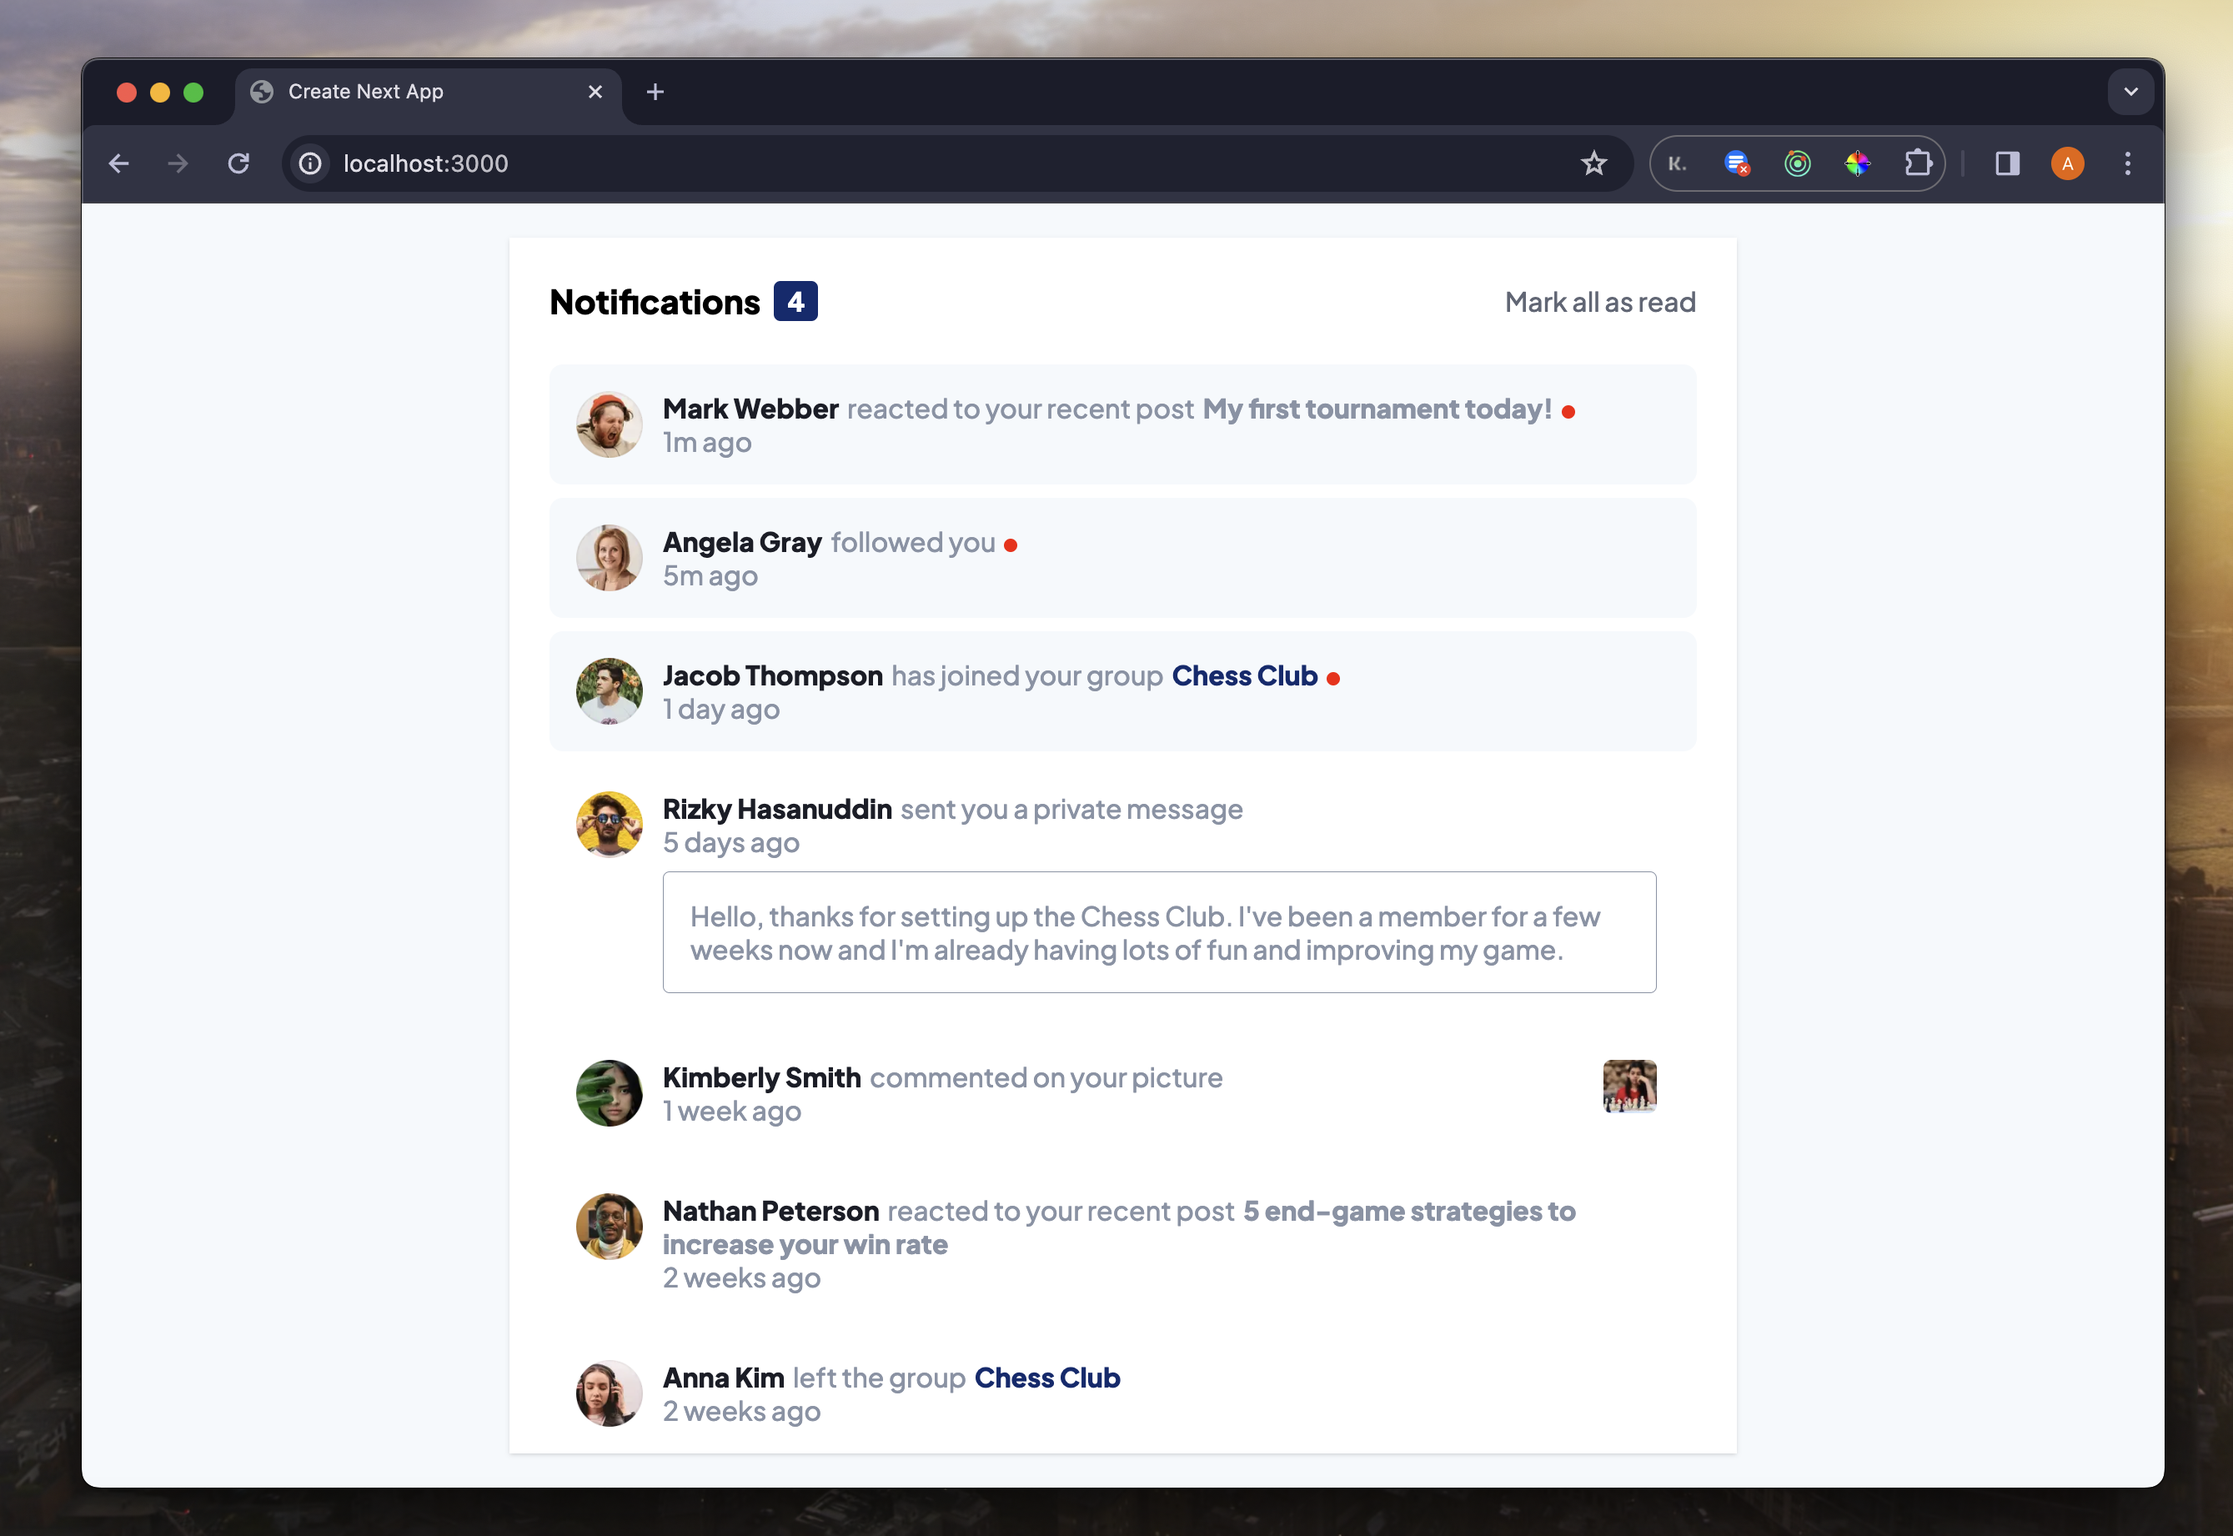
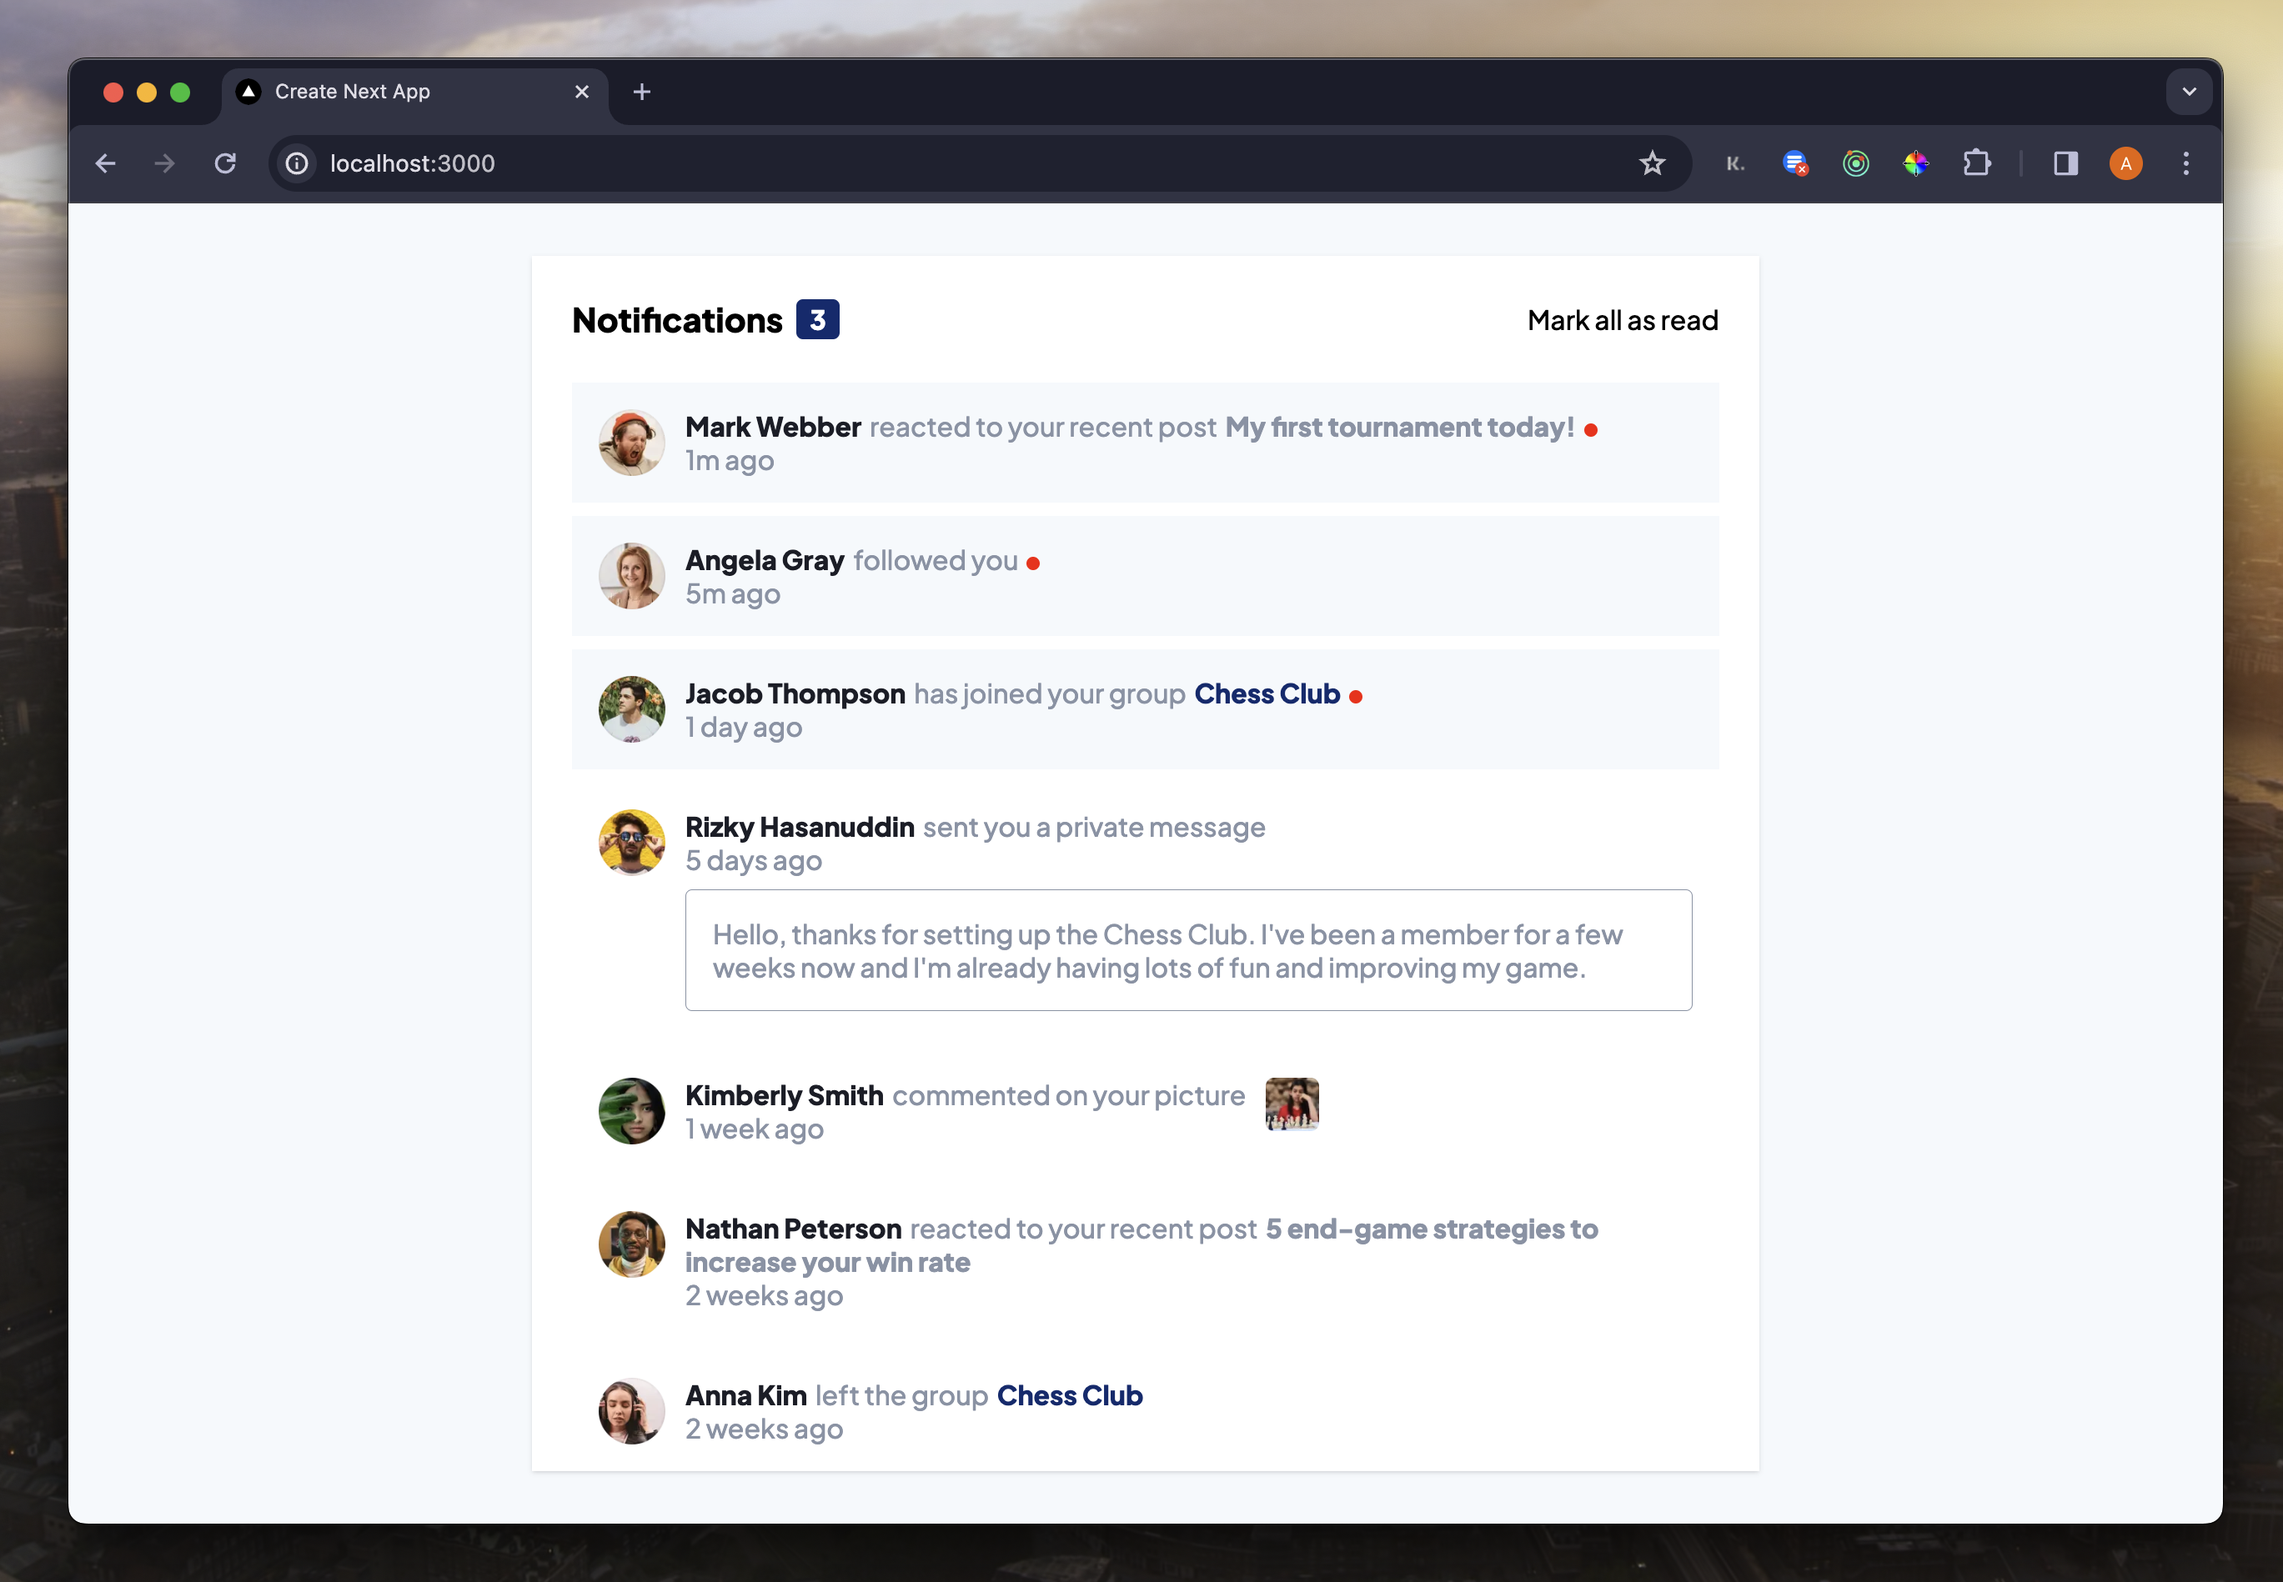
Amended dynamic styles and commented code

diff --git a/components/Notification/index.tsx b/components/Notification/index.tsx
@@ -1,4 +1,4 @@
-import { FC, MouseEventHandler, useState } from 'react'
+import { FC, useState } from 'react'
 import Image from 'next/image'
 import { motion } from 'framer-motion'
 
@@ -12,27 +12,32 @@ export interface UserNotification {
   groups?: string
   seen: boolean
   quote?: string
+  id: number
 }
 interface NotificationProps {
   user: UserNotification
   i: number
-  viewed: boolean
   setCounter: Function
   counter: number
 }
 
 const Notification: FC<NotificationProps> = ({
-  viewed,
   setCounter,
   user,
   counter,
   i,
 }) => {
+  // Store click state for whether user has confirmed the notification
   const [userSeen, setUserSeen] = useState(user.seen)
+
+  // Handles clicks on the notification
   const handleClick = () => {
+    // Conditional prevents multiple 'seen' clicks
     if (!userSeen && counter > 0) {
+      // Set local userSeen state to true
+      setUserSeen(true)
+      // Set counter in parent Feed component to counter - 1
       setCounter((prev: number) => prev - 1)
-      setUserSeen(true) // Mark as seen
     }
   }
 
@@ -44,10 +49,10 @@ const Notification: FC<NotificationProps> = ({
     >
       <div
         className={`${
-          userSeen
-            ? 'bg-white cursor-default'
-            : 'bg-neutral-veryLightGrayishBlue cursor-pointer'
-        } flex flex-row md:flex-row items-start space-x-3 space-y-0 p-4`}
+          userSeen || user.seen
+            ? 'bg-white cursor-default transition ease-in-out'
+            : 'bg-neutral-veryLightGrayishBlue cursor-pointer transition ease-in-out'
+        } flex flex-row md:flex-row items-start space-x-3 space-y-0 p-4 leading-tight`}
         onClick={handleClick}
       >
         <div
@@ -65,21 +70,21 @@ const Notification: FC<NotificationProps> = ({
           />
         </div>
 
-        <div onClick={() => handleClick}>
+        <div>
           <div className='inline space-x-0.5'>
-            <span className='font-bold text-neutral-veryDarkBlue hover:text-primary-blue'>
+            <span className='font-bold text-neutral-veryDarkBlue hover:text-primary-blue transition ease-in-out hover:cursor-pointer'>
               {user.name}{' '}
             </span>
             <span className='text-neutral-grayishBlue font-normal'>
               {user.notification}{' '}
             </span>
             {user.post && (
-              <span className='font-bold text-neutral-grayishBlue'>
+              <span className='font-bold text-neutral-grayishBlue hover:cursor-pointer transition ease-in-out hover:text-primary-blue'>
                 {user.post}{' '}
               </span>
             )}
             {user.groups && (
-              <span className='font-bold text-primary-blue'>
+              <span className='font-bold text-primary-blue transition ease-in-out hover:cursor-pointer'>
                 {user.groups}{' '}
               </span>
             )}
@@ -108,7 +113,7 @@ const Notification: FC<NotificationProps> = ({
               {user.timestamp}
             </div>
             {user.quote && (
-              <div className='w-full border-neutral-grayishBlue border-[0.5px] mt-2 p-4 rounded hover:bg-neutral-lightGrayishBlue1'>
+              <div className='w-full border-neutral-grayishBlue border-[0.5px] mt-2 p-4 rounded hover:bg-neutral-lightGrayishBlue1 hover:cursor-pointer'>
                 <p className='text-neutral-grayishBlue'>{user.quote}</p>
               </div>
             )}

diff --git a/components/Feed/index.tsx b/components/Feed/index.tsx
@@ -1,21 +1,28 @@
 'use client'
-import { useState } from 'react'
 
+import { useState } from 'react'
 import Notification from '@/components/Notification'
 import usersData from '@/utils/users.json'
+import { UserNotification } from '@/components/Notification'
 
 export default function Page() {
-  const [users, setUsers] = useState(usersData)
+  // Store our notifications in users as a raw array of objects
+  const [users, setUsers] = useState<UserNotification[]>(usersData)
+
+  // Store our counter for the seen notifications at top of Feed
   const [counter, setCounter] = useState(
+    // Length of unseen notifications array
     usersData.filter((user) => !user.seen).length
   )
 
   const markAllAsRead = () => {
+    // Marks all notifications as read and resets counter to 0
     const updatedUsers = users.map((user) => ({ ...user, seen: true }))
     setUsers(updatedUsers)
     setCounter(0)
   }
 
+  // Notifications list to render in the return statement, sorted by ID
   const notificationList = users
     .sort((a, b) => a.id - b.id)
     .map((user, index) => {
@@ -26,7 +33,6 @@ export default function Page() {
           i={index}
           setCounter={setCounter}
           counter={counter}
-          viewed={false}
         />
       )
     })
@@ -37,18 +43,17 @@ export default function Page() {
         <div className='flex flex-row justify-between items-center py-6'>
           <div className='flex flex-row space-x-2 items-center'>
             <h2 className='font-bold text-xl'>Notifications</h2>
-            <div className='bg-primary-blue px-2 rounded font-bold text-white'>
+            <div className='bg-primary-blue px-2 rounded font-bold text-white transition ease-in-out'>
               {counter}
             </div>
           </div>
 
-          {/* Step 3: Attach the function to the onClick event of the button */}
           {counter > 0 && (
             <div onClick={markAllAsRead}>
               <p
                 className={`${
                   counter > 0 ? 'hidden' : ''
-                }text-gray-500 hover:text-primary-blue cursor-pointer`}
+                }text-gray-500 hover:text-primary-blue cursor-pointer transition ease-in-out`}
               >
                 Mark all as read
               </p>

diff --git a/app/layout.tsx b/app/layout.tsx
@@ -8,8 +8,8 @@ const jakarta = Plus_Jakarta_Sans({
 })
 
 export const metadata: Metadata = {
-  title: 'Create Next App',
-  description: 'Generated by create next app',
+  title: 'Notifications Page',
+  description: 'A simple notifications page made with Next.js',
 }
 
 export default function RootLayout({

diff --git a/app/page.tsx b/app/page.tsx
@@ -2,6 +2,8 @@ import dynamic from 'next/dynamic'
 
 const FeedDynamic = dynamic(() => import('@/components/Feed'), { ssr: false })
 
+
 export default function Home() {
+  
   return <FeedDynamic />
 }

diff --git a/design/style-guide.md b/design/style-guide.md
@@ -1,0 +1,36 @@
+# Front-end Style Guide
+
+## Layout
+
+The designs were created to the following widths:
+
+- Mobile: 375px
+- Desktop: 1440px
+
+## Colors
+
+### Primary
+
+- Red: hsl(1, 90%, 64%)
+- Blue: hsl(219, 85%, 26%)
+
+### Neutral
+
+- White: hsl(0, 0%, 100%)
+- Very light grayish blue: hsl(210, 60%, 98%)
+- Light grayish blue 1: hsl(211, 68%, 94%)
+- Light grayish blue 2: hsl(205, 33%, 90%)
+- Grayish blue: hsl(219, 14%, 63%)
+- Dark grayish blue: hsl(219, 12%, 42%)
+- Very dark blue: hsl(224, 21%, 14%)
+
+## Typography
+
+### Body Copy
+
+- Font size (paragraph): 16px
+
+### Font
+
+- Family: [Plus Jakarta Sans](https://fonts.google.com/specimen/Plus+Jakarta+Sans)
+- Weights: 500, 800
